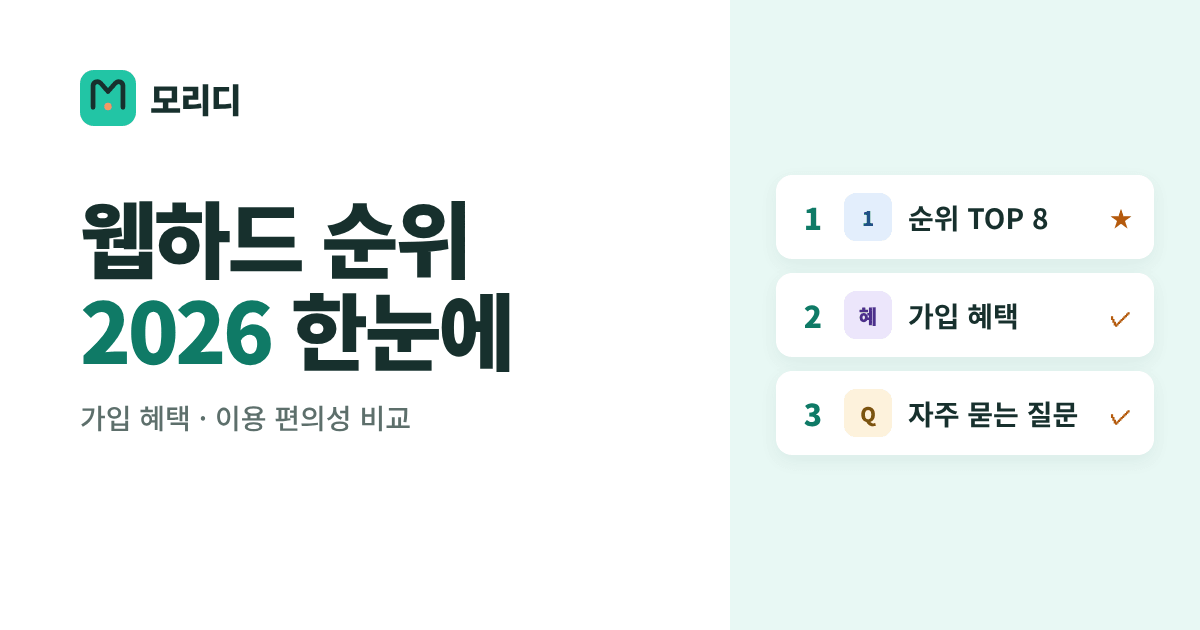
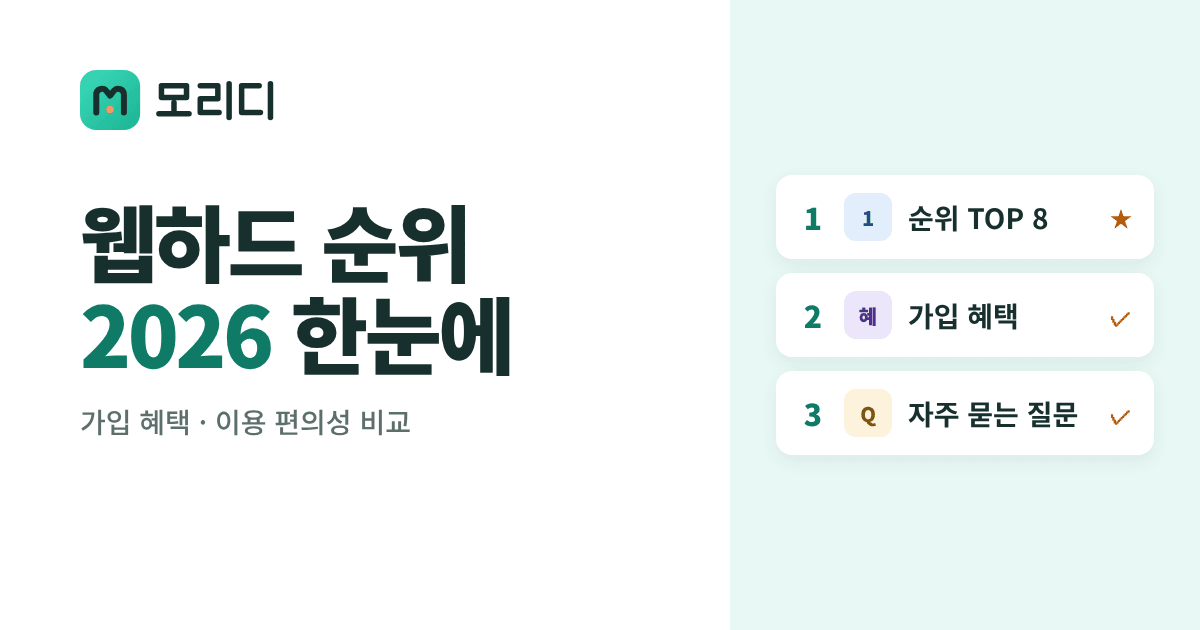
로고 다듬기
- 심볼: M을 둥근 단선으로 다시 그리고, 주황 점을 M 사이에 둠.
  민트 그라데이션 바탕
- 글자: '모리디'를 같은 둥근 획으로 직접 그려 기기 글꼴과 상관없이
  같은 모양으로 보이게 함
- logo.svg 한 파일을 머리글·바닥글이 함께 씀
- 파비콘, 홈 화면 아이콘(모서리 없는 꽉 찬 사각형), 공유 미리보기를
  새 로고로 다시 만듦(sharp로 저장)

Claude-Session: https://claude.ai/code/session_016Hd2a5mFm7cV3qRqFEP7Z2

diff --git a/src/_partials/header.html b/src/_partials/header.html
@@ -1,22 +1,8 @@
     <a class="skip-link" href="#main">본문 바로가기</a>
     <header class="site-header">
       <div class="wrap">
-        <a class="logo" href="{{ROOT}}" aria-label="모리디 홈">
-          <svg viewBox="0 0 48 48" aria-hidden="true">
-            <rect width="48" height="48" rx="12" fill="#22c5a5" />
-            <g transform="translate(4.8 3.2) scale(0.8)">
-              <path
-                d="M8 36V13c0-4 5-6 8-3l8 9 8-9c3-3 8-1 8 3v23"
-                fill="none"
-                stroke="#17302d"
-                stroke-width="5"
-                stroke-linecap="round"
-                stroke-linejoin="round"
-              />
-              <circle cx="24" cy="35" r="4" fill="#f29b64" />
-            </g>
-          </svg>
-          모리디
+        <a class="logo" href="{{ROOT}}">
+          <img src="{{ROOT}}logo.svg" alt="모리디" width="111" height="32" />
         </a>
         <nav class="site-nav" aria-label="주요 메뉴">
           <a href="{{ROOT}}#ranking">순위</a>

diff --git a/src/style.css b/src/style.css
@@ -81,22 +81,10 @@ summary:focus-visible {
 .logo {
   display: flex;
   align-items: center;
-  gap: 8px;
-  font-size: 19px;
-  font-weight: 800;
-  letter-spacing: -0.5px;
 }
 
-.logo svg {
-  width: 30px;
-  height: 30px;
-}
-
-.logo small {
-  color: var(--mint-text);
-  font-size: 11px;
-  font-weight: 800;
-  letter-spacing: 1px;
+.logo img {
+  display: block;
 }
 
 .site-nav {
@@ -367,10 +355,6 @@ summary:focus-visible {
   display: grid;
   grid-template-columns: 1.4fr 1fr 1fr;
   gap: 32px;
-}
-
-.foot-brand .logo {
-  color: var(--ink);
 }
 
 .foot-brand p {

diff --git a/src/_partials/footer.html b/src/_partials/footer.html
@@ -2,7 +2,9 @@
       <div class="wrap">
         <div class="foot-grid">
           <div class="foot-brand">
-            <a class="logo" href="{{ROOT}}">모리디</a>
+            <a class="logo" href="{{ROOT}}">
+              <img src="{{ROOT}}logo.svg" alt="모리디" width="97" height="28" />
+            </a>
             <p>
               웹하드 순위·혜택 비교 가이드<br />
               가입 혜택과 이용 편의성을 기준으로 정리해요.

diff --git a/docs/운영.md b/docs/운영.md
@@ -29,6 +29,7 @@
 - `node scripts/build.mjs`가 `src/`와 `data/`로 `_site/`를 만든다.
 - `src/_partials/`의 머리글·바닥글은 모든 페이지에 들어간다. 출력에는 이 폴더가 남지 않는다.
 - 공유 미리보기 이미지는 `src/og.png`(1200×630)다. 문구를 바꾸면 이미지도 다시 만들고 sharp로 다시 저장한다.
+- 로고는 `src/logo.svg`(심볼과 글자), 심볼만 쓰는 곳은 `src/favicon.svg`다. 두 파일의 심볼 모양을 같게 유지한다. 홈 화면 아이콘(`apple-touch-icon.png`)은 모서리 없이 꽉 찬 사각형으로 만든다.
 - `node --test tests/*.test.mjs`로 빌드 결과를 검사한다. 소스 줄 길이와 주석도 여기서 걸러진다.
 - `main`에 push하면 `.github/workflows/pages.yml`이 빌드·검사 후 배포한다.
 
